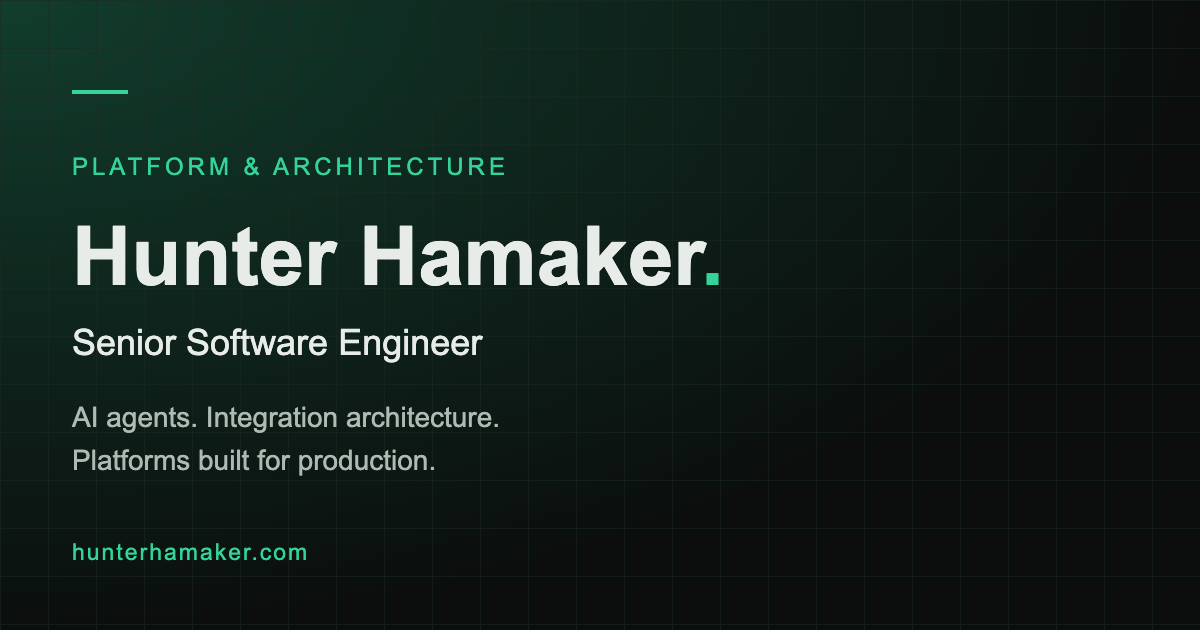
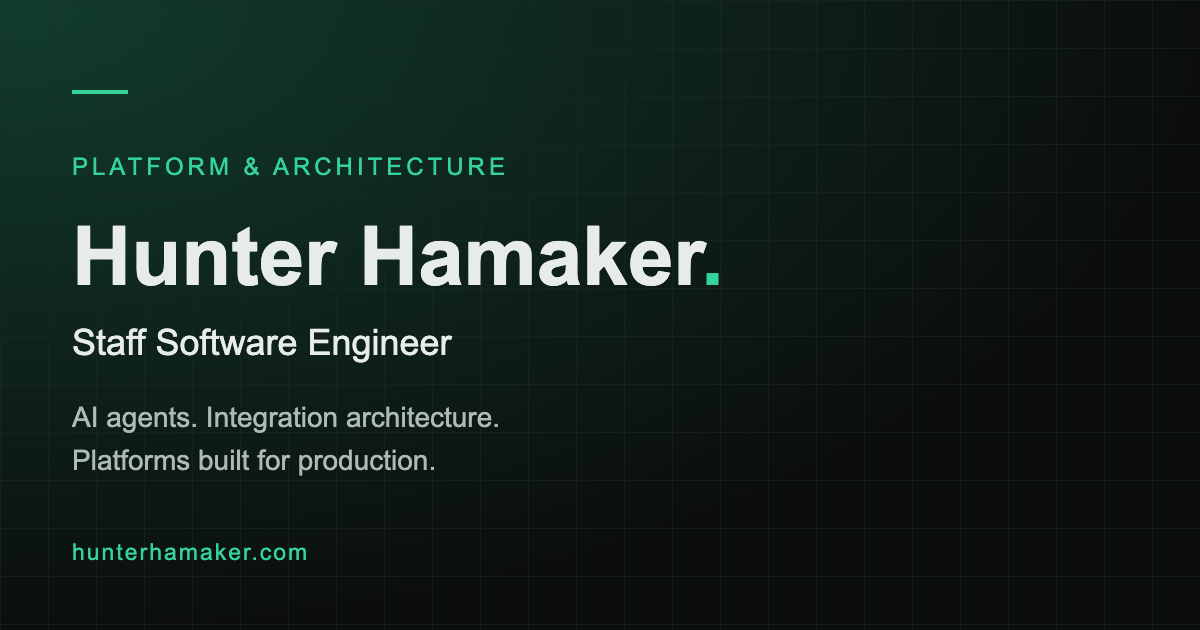
staff

Changed region(s): [[0.0617, 0.5127, 0.4008, 0.573]]

diff --git a/index.html b/index.html
@@ -3,21 +3,21 @@
 <head>
 	<meta charset="UTF-8">
 	<meta name="viewport" content="width=device-width, initial-scale=1">
-	<title>Hunter Hamaker — Senior Software Engineer</title>
-	<meta name="description" content="Hunter Hamaker is a senior software engineer on AppFolio's platform & architecture team — designing agent-to-agent AI systems and the integrations that hold enterprise applications together.">
-	<meta property="og:title" content="Hunter Hamaker — Senior Software Engineer">
+	<title>Hunter Hamaker — Staff Software Engineer</title>
+	<meta name="description" content="Hunter Hamaker is a staff software engineer on AppFolio's platform & architecture team — designing agent-to-agent AI systems and the integrations that hold enterprise applications together.">
+	<meta property="og:title" content="Hunter Hamaker — Staff Software Engineer">
 	<meta property="og:description" content="Platform & architecture engineer: agent-to-agent AI systems, Salesforce, MuleSoft, AWS. A decade of building the systems that hold businesses together.">
 	<meta property="og:type" content="website">
 	<meta property="og:url" content="https://www.hunterhamaker.com/">
 	<meta property="og:image" content="https://www.hunterhamaker.com/img/social-preview.png">
 	<meta property="og:image:width" content="1200">
 	<meta property="og:image:height" content="630">
-	<meta property="og:image:alt" content="Hunter Hamaker — Senior Software Engineer. AI agents, integration architecture, and platforms built for production.">
+	<meta property="og:image:alt" content="Hunter Hamaker — Staff Software Engineer. AI agents, integration architecture, and platforms built for production.">
 	<meta name="twitter:card" content="summary_large_image">
-	<meta name="twitter:title" content="Hunter Hamaker — Senior Software Engineer">
+	<meta name="twitter:title" content="Hunter Hamaker — Staff Software Engineer">
 	<meta name="twitter:description" content="AI agents, integration architecture, and platforms built for production.">
 	<meta name="twitter:image" content="https://www.hunterhamaker.com/img/social-preview.png">
-	<meta name="twitter:image:alt" content="Hunter Hamaker — Senior Software Engineer. AI agents, integration architecture, and platforms built for production.">
+	<meta name="twitter:image:alt" content="Hunter Hamaker — Staff Software Engineer. AI agents, integration architecture, and platforms built for production.">
 	<meta name="theme-color" content="#0b0e0d">
 	<link rel="canonical" href="https://www.hunterhamaker.com/">
 	<link rel="icon" type="image/svg+xml" href="img/favicon.svg">
@@ -31,7 +31,7 @@
 		"name": "Hunter Hamaker",
 		"url": "https://www.hunterhamaker.com/",
 		"image": "https://www.hunterhamaker.com/img/me.jpg",
-		"jobTitle": "Senior Software Engineer",
+		"jobTitle": "Staff Software Engineer",
 		"worksFor": { "@type": "Organization", "name": "AppFolio" },
 		"alumniOf": { "@type": "CollegeOrUniversity", "name": "California Lutheran University" },
 		"sameAs": [
@@ -717,7 +717,7 @@
 			<div>
 				<p class="kicker">hunterhamaker.com</p>
 				<h1>Hunter<br> Hamaker<span class="dot">.</span></h1>
-				<p class="role">Senior Software Engineer · Platform &amp; Architecture</p>
+				<p class="role">Staff Software Engineer · Platform &amp; Architecture</p>
 				<p class="tagline">I build AI agents and the integrations that hold business systems together — <strong>resilient, observable, and zero-downtime</strong>.</p>
 				<p class="stack-line">ai agents · salesforce · mulesoft · aws · workday<span class="cursor"></span></p>
 				<nav aria-label="Section navigation">
@@ -757,8 +757,8 @@
 				<h2 class="section-label"><span class="num" aria-hidden="true">01</span> About</h2>
 				<div class="about-grid">
 					<div>
-						<p>I'm a senior software engineer on the <strong>platform &amp; architecture team at AppFolio</strong>, with <strong>10+ years building software</strong>. I design production AI agents and the integrations connecting enterprise systems — with a focus on reliability, observability, and operating cost.</p>
-						<p>My work spans <span class="accent">Salesforce, MuleSoft, and AWS</span>: from a scheduling platform saving over <strong>$5 million annually</strong> to integrations serving <strong>1.2 million requests a day</strong>. I lead platform initiatives and mentor engineers from early-career through fellow seniors. Off the clock: family, traveling, cooking, and learning something new.</p>
+						<p>I'm a staff software engineer on the <strong>platform &amp; architecture team at AppFolio</strong>, with <strong>10+ years building software</strong>. I design production AI agents and the integrations connecting enterprise systems — with a focus on reliability, observability, and operating cost.</p>
+						<p>My work spans <span class="accent">Salesforce, MuleSoft, and AWS</span>: from a scheduling platform saving over <strong>$5 million annually</strong> to integrations serving <strong>1.2 million requests a day</strong>. I lead platform initiatives and mentor engineers from early-career through senior levels. Off the clock: family, traveling, cooking, and learning something new.</p>
 					</div>
 					<div class="portrait-frame">
 						<img class="portrait" src="img/me.jpg" alt="Photo of Hunter Hamaker" width="376" height="376">
@@ -820,7 +820,7 @@
 				<ol class="timeline">
 					<li class="job">
 						<p class="period">Jul 2017 — Present</p>
-						<h3>Senior Software Engineer</h3>
+						<h3>Staff Software Engineer</h3>
 						<p class="org">AppFolio · Platform &amp; Architecture Team · Goleta, CA</p>
 						<ul>
 							<li>Lead enterprise AI and integration architecture: production agents, secure Salesforce access, and a scheduling platform saving over $5 million annually. See selected work above.</li>
@@ -828,7 +828,7 @@
 							<li>Built an OFAC screening pipeline covering 200,000+ bank accounts with active fraud-hit monitoring, reducing liability risk on hundreds of millions in payment transactions.</li>
 							<li>Led the Rollbar-to-Datadog observability migration and an Apex refactor that reduced silent failures by 99%; executed a MuleSoft on-prem runtime upgrade with zero downtime.</li>
 							<li>Ran vulnerability remediation across Python and Java services, standardized security tooling with Dependabot, CodeQL, and JFrog Artifactory, and tightened AWS IAM scoping.</li>
-							<li>Mentored engineers from early-career through fellow seniors as a subject-matter expert across Salesforce, MuleSoft, and AWS.</li>
+							<li>Mentored engineers from early-career through senior levels as a subject-matter expert across Salesforce, MuleSoft, and AWS.</li>
 						</ul>
 					</li>
 					<li class="job">
@@ -998,7 +998,7 @@
 			<section id="contact" class="contact reveal">
 				<h2 class="section-label"><span class="num" aria-hidden="true">07</span> Contact</h2>
 				<h3>Let's build something<br>that <span>just works</span>.</h3>
-				<p>Whether it's a gnarly integration problem or a team that needs a senior engineer who's seen it all break before — my inbox is open.</p>
+				<p>Whether it's a gnarly integration problem or a team that needs a staff engineer who's seen it all break before — my inbox is open.</p>
 				<a class="cta" href="mailto:hhamaker22@gmail.com">
 					<svg viewBox="0 0 24 24" aria-hidden="true"><path d="M2 4h20a1 1 0 0 1 1 1v14a1 1 0 0 1-1 1H2a1 1 0 0 1-1-1V5a1 1 0 0 1 1-1Zm10 8.62 9-6.12V6.3l-9 6.12L3 6.3v.2l9 6.12ZM3 18h18V8.72l-9 6.12-9-6.12V18Z"/></svg>
 					hhamaker22@gmail.com

diff --git a/scripts/render-social-image.js b/scripts/render-social-image.js
@@ -1,10 +1,11 @@
+import { fileURLToPath } from "node:url";
 import { chromium } from "playwright";
 
 const browser = await chromium.launch({ executablePath: process.env.CHROME_PATH || undefined });
 try {
   const page = await browser.newPage({ viewport: { width: 1200, height: 630 }, deviceScaleFactor: 1 });
   await page.goto(new URL("../img/social-preview.svg", import.meta.url).href);
-  await page.screenshot({ path: new URL("../img/social-preview.png", import.meta.url).pathname });
+  await page.screenshot({ path: fileURLToPath(new URL("../img/social-preview.png", import.meta.url)) });
   console.log("Rendered img/social-preview.png (1200 × 630)");
 } finally {
   await browser.close();

diff --git a/docs/superpowers/specs/2026-06-11-cv-redesign-design.md b/docs/superpowers/specs/2026-06-11-cv-redesign-design.md
@@ -7,7 +7,7 @@ Site: www.hunterhamaker.com (GitHub Pages, single `index.html`)
 ## Goal
 
 Replace the w3.css parallax template with a sleek, modern, dark single-page CV
-that positions Hunter Hamaker as a senior software engineer / integration
+that positions Hunter Hamaker as a staff software engineer / integration
 specialist with 10+ years of experience. Target audience: potential
 employers.
 
